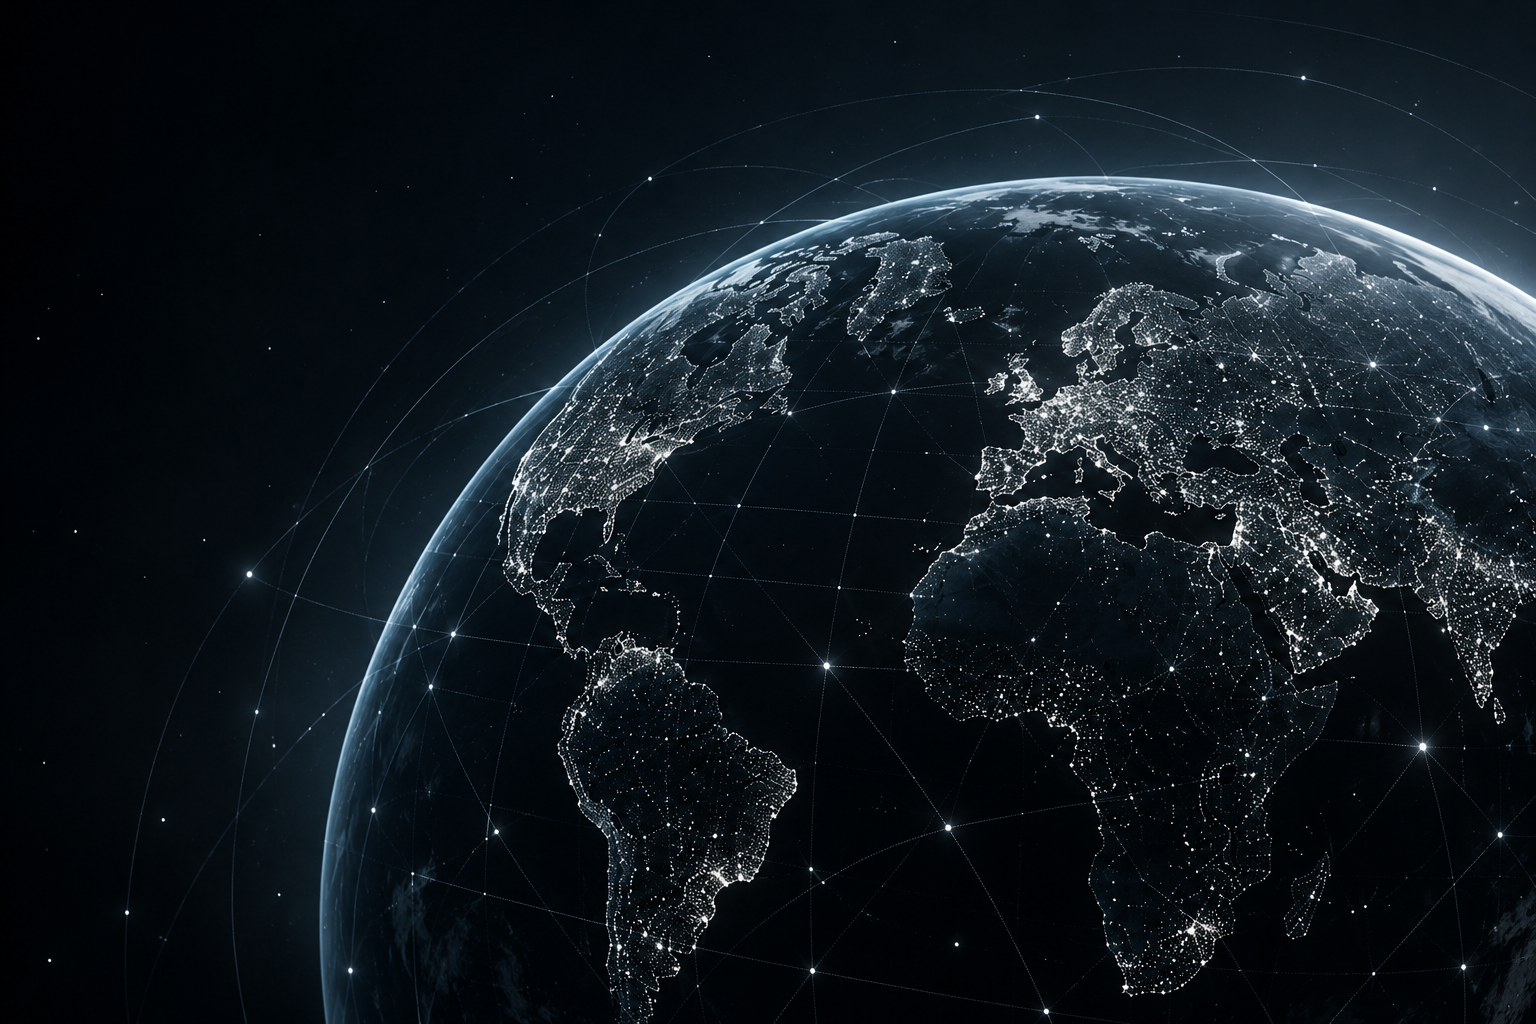
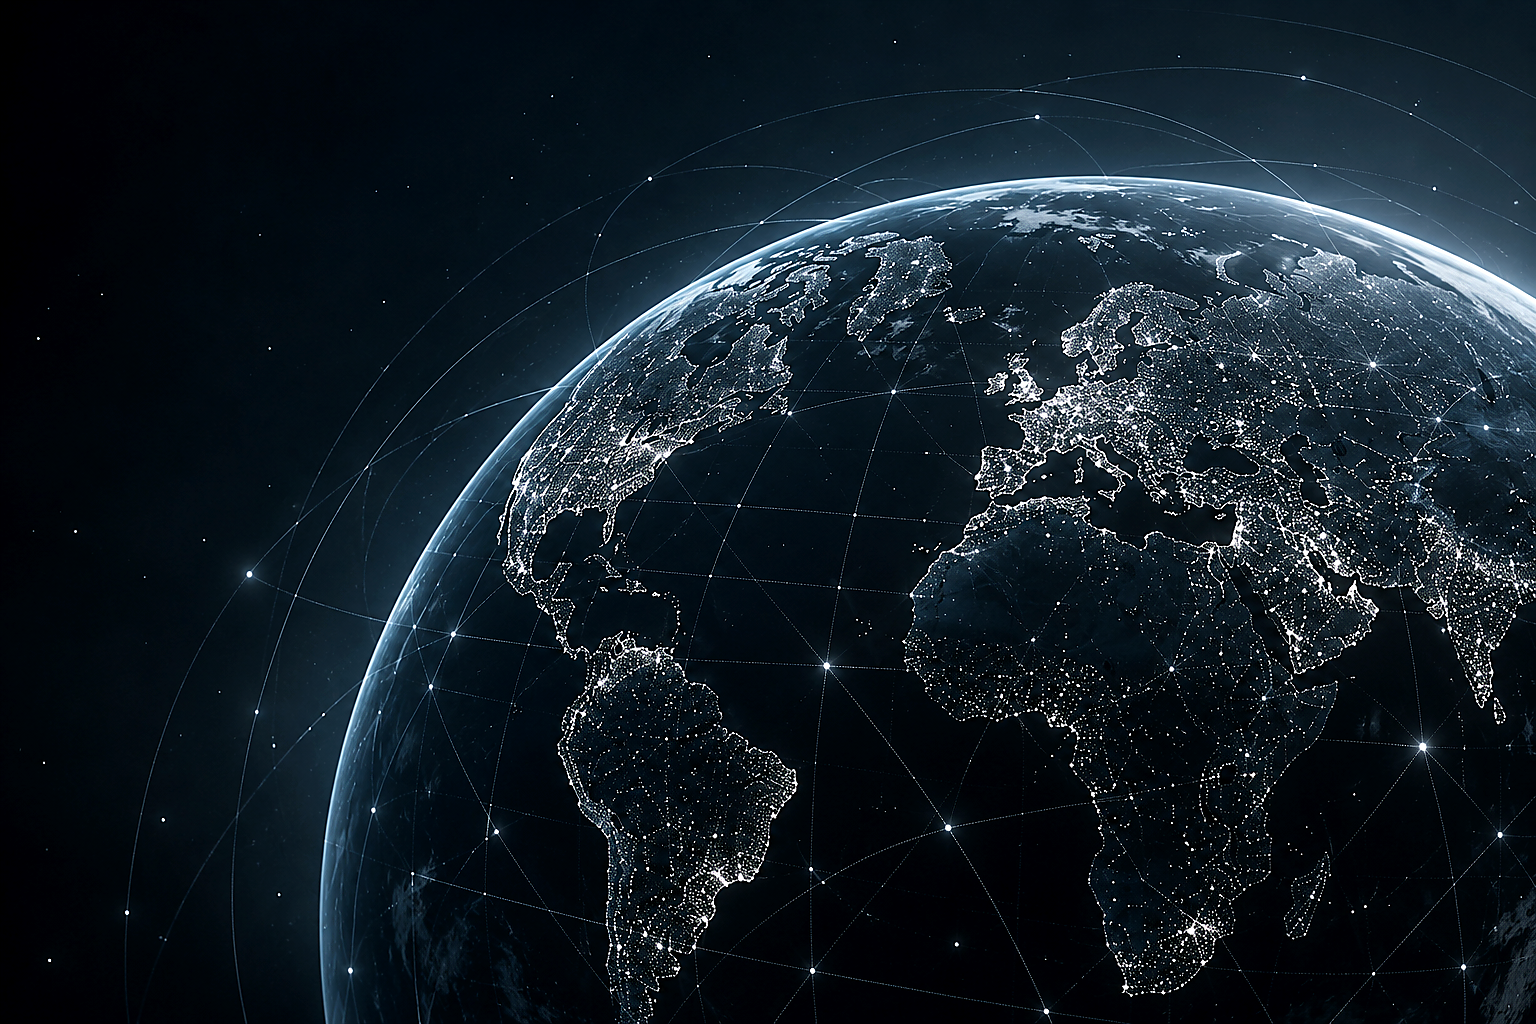
feat: redesign directions cards with text over full-height background image and enhance image clarity

diff --git a/css/napravleniya.css b/css/napravleniya.css
@@ -237,12 +237,13 @@
   position: relative;
   display: flex;
   flex-direction: column;
-  justify-content: space-between;
+  justify-content: flex-start;
+  min-height: 380px;
   background-color: #0c1119;
   border-right: 1px solid rgba(255, 255, 255, 0.08);
   cursor: pointer;
   overflow: hidden;
-  transition: background-color 0.3s ease, transform 0.3s cubic-bezier(0.16, 1, 0.3, 1), box-shadow 0.3s ease;
+  transition: transform 0.3s cubic-bezier(0.16, 1, 0.3, 1), box-shadow 0.3s ease, border-color 0.3s ease;
   user-select: none;
 }
 
@@ -251,16 +252,59 @@
 }
 
 .direction-card:hover {
-  background-color: #121824;
-  z-index: 2;
-  box-shadow: 0 10px 30px rgba(0, 0, 0, 0.6), 0 0 20px rgba(224, 68, 52, 0.25);
+  z-index: 3;
+  box-shadow: 0 12px 35px rgba(0, 0, 0, 0.75), 0 0 20px rgba(224, 68, 52, 0.2);
 }
 
-/* Top Information Area */
+/* Background Image Box (Fills entire card behind text) */
+.card-image-box {
+  position: absolute;
+  inset: 0;
+  width: 100%;
+  height: 100%;
+  overflow: hidden;
+  background-color: #070a0f;
+  z-index: 0;
+}
+
+.card-img {
+  width: 100%;
+  height: 100%;
+  object-fit: cover;
+  object-position: center bottom;
+  filter: brightness(1.02) contrast(1.04);
+  transition: transform 0.65s cubic-bezier(0.16, 1, 0.3, 1), filter 0.4s ease;
+}
+
+.direction-card:hover .card-img {
+  transform: scale(1.08);
+  filter: brightness(1.1) contrast(1.08);
+}
+
+/* Gradient Overlay: dark at top for text readability, clear in center/bottom to reveal high-res artwork */
+.card-img-overlay {
+  position: absolute;
+  inset: 0;
+  background: linear-gradient(
+    180deg,
+    rgba(12, 17, 25, 0.92) 0%,
+    rgba(12, 17, 25, 0.82) 26%,
+    rgba(12, 17, 25, 0.35) 48%,
+    rgba(12, 17, 25, 0.0) 65%,
+    rgba(12, 17, 25, 0.2) 100%
+  );
+  pointer-events: none;
+  z-index: 1;
+}
+
+/* Top Information Area (Overlaid inside the card at top) */
 .card-top-info {
-  padding: 20px 16px 14px;
+  position: relative;
+  z-index: 2;
+  padding: 24px 18px 16px;
   display: flex;
   flex-direction: column;
+  pointer-events: none;
 }
 
 .card-index {
@@ -270,6 +314,7 @@
   color: #ffffff;
   margin-bottom: 6px;
   line-height: 1;
+  text-shadow: 0 2px 10px rgba(0, 0, 0, 0.9);
 }
 
 .card-title {
@@ -281,61 +326,30 @@
   color: #ffffff;
   margin-bottom: 8px;
   line-height: 1.25;
+  text-shadow: 0 2px 12px rgba(0, 0, 0, 0.95);
 }
 
 .card-subtitle {
   font-size: 0.74rem;
   line-height: 1.45;
-  color: #94a3b8;
+  color: #cbd5e1;
   font-weight: 400;
-  margin-bottom: 12px;
+  margin-bottom: 14px;
   min-height: 32px;
+  text-shadow: 0 1px 8px rgba(0, 0, 0, 0.9);
 }
 
 .card-arrow-btn {
-  font-size: 1rem;
+  font-size: 1.1rem;
   color: #ffffff;
   line-height: 1;
   transition: transform var(--transition-fast), color var(--transition-fast);
+  text-shadow: 0 2px 8px rgba(0, 0, 0, 0.9);
 }
 
 .direction-card:hover .card-arrow-btn {
   color: var(--brand-accent-red);
   transform: translateX(4px);
-}
-
-/* Bottom Square Image Box (1:1 Ratio) */
-.card-image-box {
-  position: relative;
-  width: 100%;
-  aspect-ratio: 1 / 1;
-  overflow: hidden;
-  background-color: #070a0f;
-  border-top: 1px solid rgba(255, 255, 255, 0.06);
-}
-
-.card-img {
-  width: 100%;
-  height: 100%;
-  object-fit: cover;
-  object-position: center;
-  filter: brightness(0.68) saturate(0.9);
-  transition: transform 0.6s cubic-bezier(0.16, 1, 0.3, 1), filter 0.4s ease;
-}
-
-.direction-card:hover .card-img {
-  transform: scale(1.08);
-  filter: brightness(0.9) saturate(1.1);
-}
-
-.card-img-overlay {
-  position: absolute;
-  top: 0;
-  left: 0;
-  width: 100%;
-  height: 100%;
-  background: linear-gradient(180deg, rgba(12, 17, 25, 0.35) 0%, transparent 40%, rgba(12, 17, 25, 0.5) 100%);
-  pointer-events: none;
 }
 
 .direction-card.card-turning {
@@ -798,14 +812,12 @@
     gap: 0;
   }
   .direction-card {
+    min-height: 300px;
     border-right: none;
     border-bottom: 1px solid rgba(255, 255, 255, 0.08);
   }
   .direction-card:last-child {
     border-bottom: none;
-  }
-  .card-image-box {
-    aspect-ratio: 16 / 11;
   }
   .footer-inner-grid {
     flex-direction: column;
